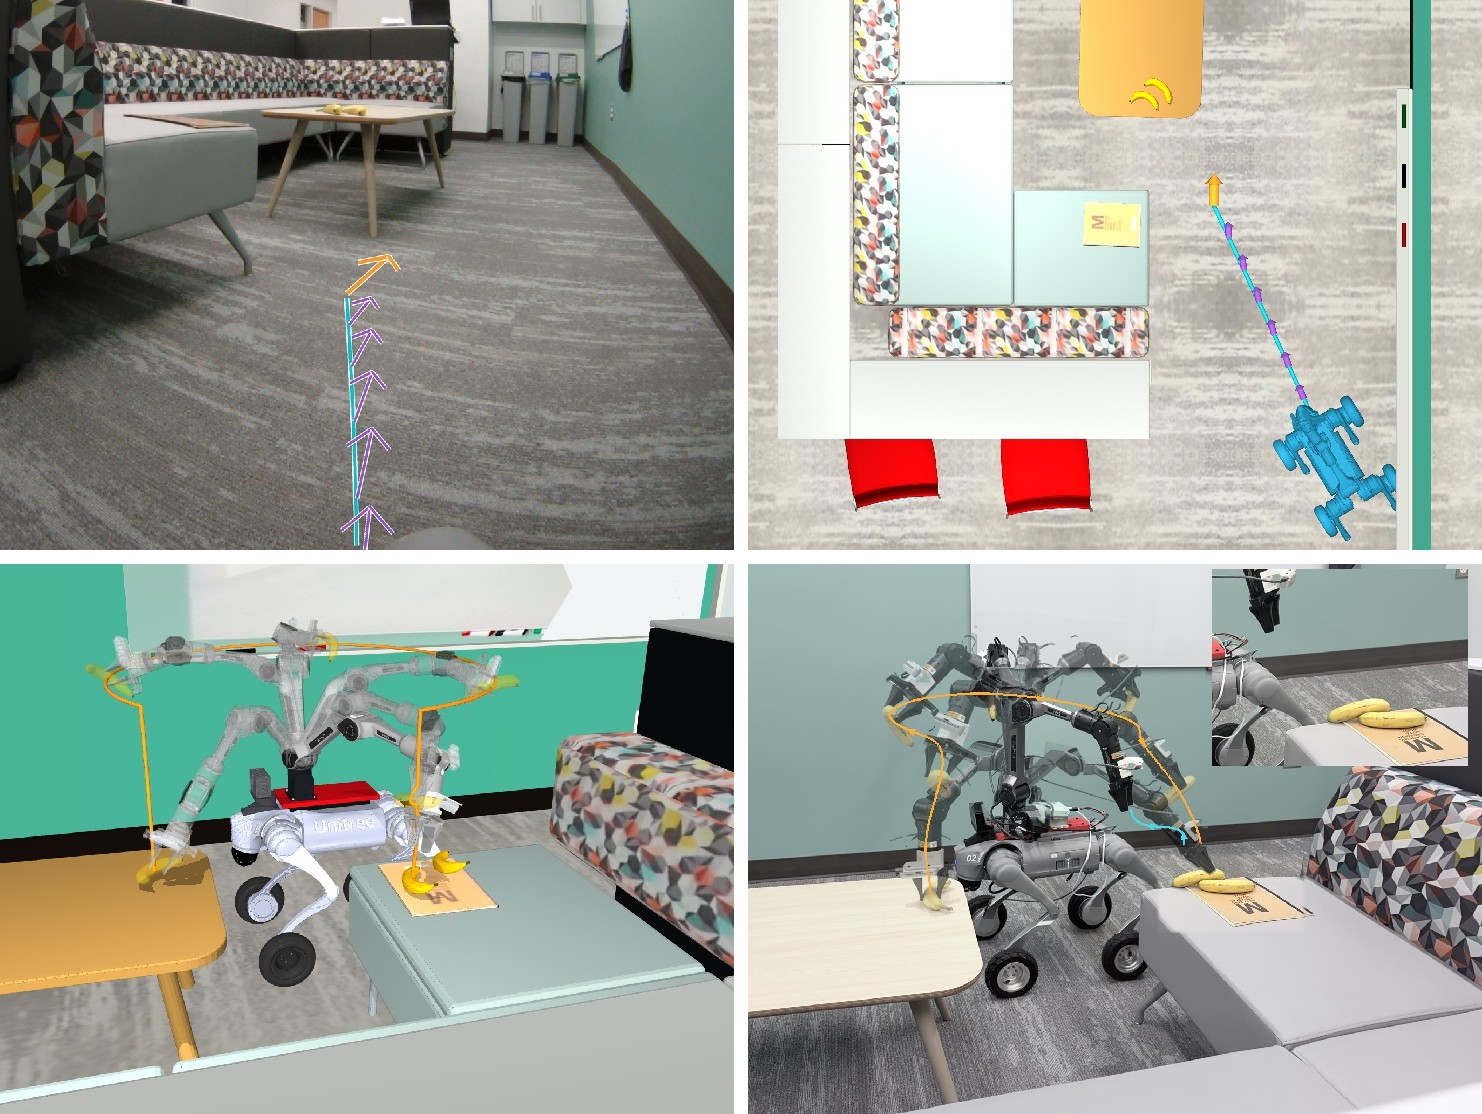
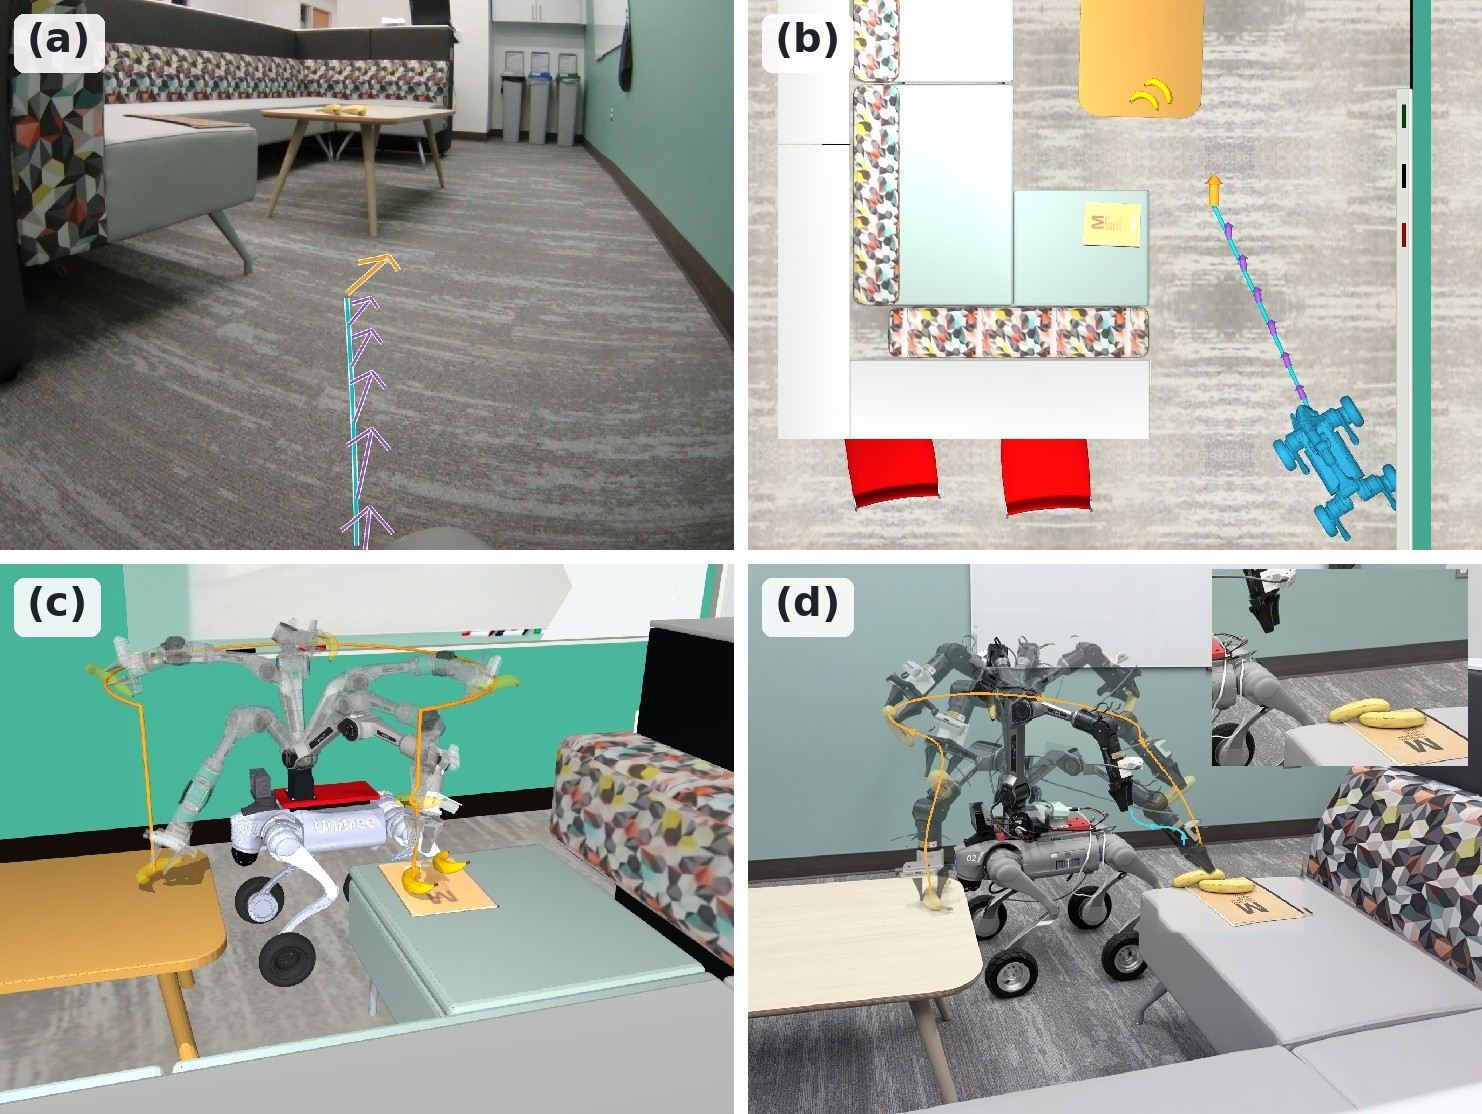
SC-BPE page: hide BibTeX, demo details next to a smaller labeled figure
Claude-Session: https://claude.ai/code/session_01MvEEoQ9okvfXRrpXLiPb1A

diff --git a/sc-bpe/index.html b/sc-bpe/index.html
@@ -10,11 +10,11 @@
 <meta name="theme-color" content="#ffffff">
 <link rel="preconnect" href="https://fonts.googleapis.com"><link rel="preconnect" href="https://fonts.gstatic.com" crossorigin>
 <link href="https://fonts.googleapis.com/css2?family=Open+Sans:wght@400;600;700&display=swap" rel="stylesheet">
-<link rel="stylesheet" href="../assets/shared/project.css?v=202610051800">
+<link rel="stylesheet" href="../assets/shared/project.css?v=202610051900">
 <script>(function(){var r=document.documentElement,t=null;try{t=localStorage.getItem('theme')}catch(e){}
 if(t!=='dark'&&t!=='light')t=(window.matchMedia&&matchMedia('(prefers-color-scheme: dark)').matches)?'dark':'light';
 if(t==='dark')r.setAttribute('data-theme','dark');})();</script>
-<script src="../assets/shared/project.js?v=202610051800" defer></script>
+<script src="../assets/shared/project.js?v=202610051900" defer></script>
 </head><body>
 <button class="theme-toggle" id="theme-toggle" type="button" aria-label="Toggle light/dark mode" title="Toggle light/dark mode">
  <svg class="moon" viewBox="0 0 24 24"><path d="M21 12.8A9 9 0 1 1 11.2 3a7 7 0 0 0 9.8 9.8z"/></svg>
@@ -34,7 +34,7 @@ if(t==='dark')r.setAttribute('data-theme','dark');})();</script>
   <span><a href="https://research.csc.ncsu.edu/corob/team.html">Peng Gao</a><sup>1</sup></span>
  </p>
  <p class="affil"><span><sup>1</sup> North Carolina State University</span><span><sup>2</sup> Princeton University</span></p>
- <p class="links"><a href="https://drive.google.com/drive/folders/1QAKyKIDpg341510mh3rUSAgRdEUgEKBa">Paper</a><a href="#demo">Video</a><a href="#citation">BibTeX</a></p>
+ <p class="links"><a href="https://drive.google.com/drive/folders/1QAKyKIDpg341510mh3rUSAgRdEUgEKBa">Paper</a><a href="#demo">Video</a><!-- <a href="#citation">BibTeX</a> --></p>
 </header>
 
 <main>
@@ -153,15 +153,24 @@ if(t==='dark')r.setAttribute('data-theme','dark');})();</script>
  </div>
  <p class="note">The evaluator is trained only on labels from a simulated reconstruction of the scene. Visual servoing corrects errors during execution.</p>
  </div>
- <details class="more">
-  <summary>How the demo is set up: from the reconstructed scene to the real robot</summary>
+ <div class="split demo">
   <figure>
-  <img src="../assets/skeleton-base-placement/fig6_real2sim2real.jpg" width="1482" height="1114" loading="lazy" alt="Real-world navigation, simulation navigation, simulation trajectory, and real-world execution">
-  <figcaption>Top: real-world localization and navigation (left) and the corresponding navigation in the reconstructed scene (right). Bottom: simulated (left) and physical (right) execution of the second banana's transfer. Orange is the placement trajectory and cyan the post-placement retreat.</figcaption>
- </figure>
- </details>
+   <img src="../assets/skeleton-base-placement/fig6_real2sim2real.jpg" width="1482" height="1114" loading="lazy" alt="(a) real-world navigation, (b) simulation navigation, (c) simulation trajectory, (d) real-world execution">
+   <figcaption>Orange: placement trajectory. Cyan: post-placement retreat.</figcaption>
+  </figure>
+  <div>
+   <p class="label">How the demo works</p>
+   <ol class="flow">
+    <li>The room is reconstructed in simulation from real captures. Candidate outcomes collected there are the labels for training the evaluator.</li>
+    <li>SC-BPE ranks skeleton&ndash;base pairs, and the selected manipulation base becomes the navigation goal.</li>
+    <li>On the robot, point-cloud registration (small_gicp) localizes it as it approaches the base (a). The same approach is replayed in simulation (b), and the refined plan gives the manipulation trajectory (c).</li>
+    <li>The robot follows the simulated action sequence. Once the target is detected, visual servoing corrects accumulated and sim-to-real errors during execution (d).</li>
+   </ol>
+  </div>
+ </div>
 </section>
 
+<!-- BibTeX hidden until the paper is public. Restore by removing this comment and the one on the header BibTeX link.
 <section id="citation">
  <h2>Citation</h2>
  <p class="text lead">Please cite the paper when using SC-BPE or its evaluation results. The BibTeX will be updated when the paper is published.</p>
@@ -177,6 +186,8 @@ if(t==='dark')r.setAttribute('data-theme','dark');})();</script>
  <span class="copy-status" role="status" aria-live="polite"></span>
  <p class="text">Contact: <a href="mailto:qli39@ncsu.edu">qli39@ncsu.edu</a>, <a href="mailto:pgao5@ncsu.edu">pgao5@ncsu.edu</a></p>
 </section>
+-->
+ <p class="text contact" style="margin-top:44px">Contact: <a href="mailto:qli39@ncsu.edu">qli39@ncsu.edu</a>, <a href="mailto:pgao5@ncsu.edu">pgao5@ncsu.edu</a></p>
 </main>
 
 <footer>&copy; 2026 Qihang Li, Yixuan Huang, Tom Silver, and Peng Gao. &middot; <a href="https://qihangli.com/">qihangli.com</a></footer>

diff --git a/cerpe/index.html b/cerpe/index.html
@@ -10,11 +10,11 @@
 <meta name="theme-color" content="#ffffff">
 <link rel="preconnect" href="https://fonts.googleapis.com"><link rel="preconnect" href="https://fonts.gstatic.com" crossorigin>
 <link href="https://fonts.googleapis.com/css2?family=Open+Sans:wght@400;600;700&display=swap" rel="stylesheet">
-<link rel="stylesheet" href="../assets/shared/project.css?v=202610051800">
+<link rel="stylesheet" href="../assets/shared/project.css?v=202610051900">
 <script>(function(){var r=document.documentElement,t=null;try{t=localStorage.getItem('theme')}catch(e){}
 if(t!=='dark'&&t!=='light')t=(window.matchMedia&&matchMedia('(prefers-color-scheme: dark)').matches)?'dark':'light';
 if(t==='dark')r.setAttribute('data-theme','dark');})();</script>
-<script src="../assets/shared/project.js?v=202610051800" defer></script>
+<script src="../assets/shared/project.js?v=202610051900" defer></script>
 </head><body>
 <button class="theme-toggle" id="theme-toggle" type="button" aria-label="Toggle light/dark mode" title="Toggle light/dark mode">
  <svg class="moon" viewBox="0 0 24 24"><path d="M21 12.8A9 9 0 1 1 11.2 3a7 7 0 0 0 9.8 9.8z"/></svg>

diff --git a/tools/project_template.html b/tools/project_template.html
@@ -18,11 +18,11 @@
 <meta name="theme-color" content="#ffffff">
 <link rel="preconnect" href="https://fonts.googleapis.com"><link rel="preconnect" href="https://fonts.gstatic.com" crossorigin>
 <link href="https://fonts.googleapis.com/css2?family=Open+Sans:wght@400;600;700&display=swap" rel="stylesheet">
-<link rel="stylesheet" href="../assets/shared/project.css?v=202610051800">
+<link rel="stylesheet" href="../assets/shared/project.css?v=202610051900">
 <script>(function(){var r=document.documentElement,t=null;try{t=localStorage.getItem('theme')}catch(e){}
 if(t!=='dark'&&t!=='light')t=(window.matchMedia&&matchMedia('(prefers-color-scheme: dark)').matches)?'dark':'light';
 if(t==='dark')r.setAttribute('data-theme','dark');})();</script>
-<script src="../assets/shared/project.js?v=202610051800" defer></script>
+<script src="../assets/shared/project.js?v=202610051900" defer></script>
 </head><body>
 <button class="theme-toggle" id="theme-toggle" type="button" aria-label="Toggle light/dark mode" title="Toggle light/dark mode">
  <svg class="moon" viewBox="0 0 24 24"><path d="M21 12.8A9 9 0 1 1 11.2 3a7 7 0 0 0 9.8 9.8z"/></svg>

diff --git a/assets/shared/project.css b/assets/shared/project.css
@@ -172,3 +172,9 @@ footer{text-align:center;color:var(--muted);font-size:.85rem;margin-top:56px;pad
 .tip.on{opacity:1;visibility:visible}
 .tip strong{display:block;margin-bottom:2px}
 .tip .set{display:block;margin-top:6px;color:var(--muted)}
+.split.demo{grid-template-columns:minmax(0,1fr) minmax(0,1fr);align-items:start;margin-top:22px}
+.split.demo .label{margin-top:0}
+.flow{margin:6px 0 0;padding-left:1.25em;font-size:.95rem}
+.flow li{margin-top:.55em}
+.flow li:first-child{margin-top:0}
+@media (max-width:720px){.split.demo{display:block}.split.demo>div{margin-top:14px}}
